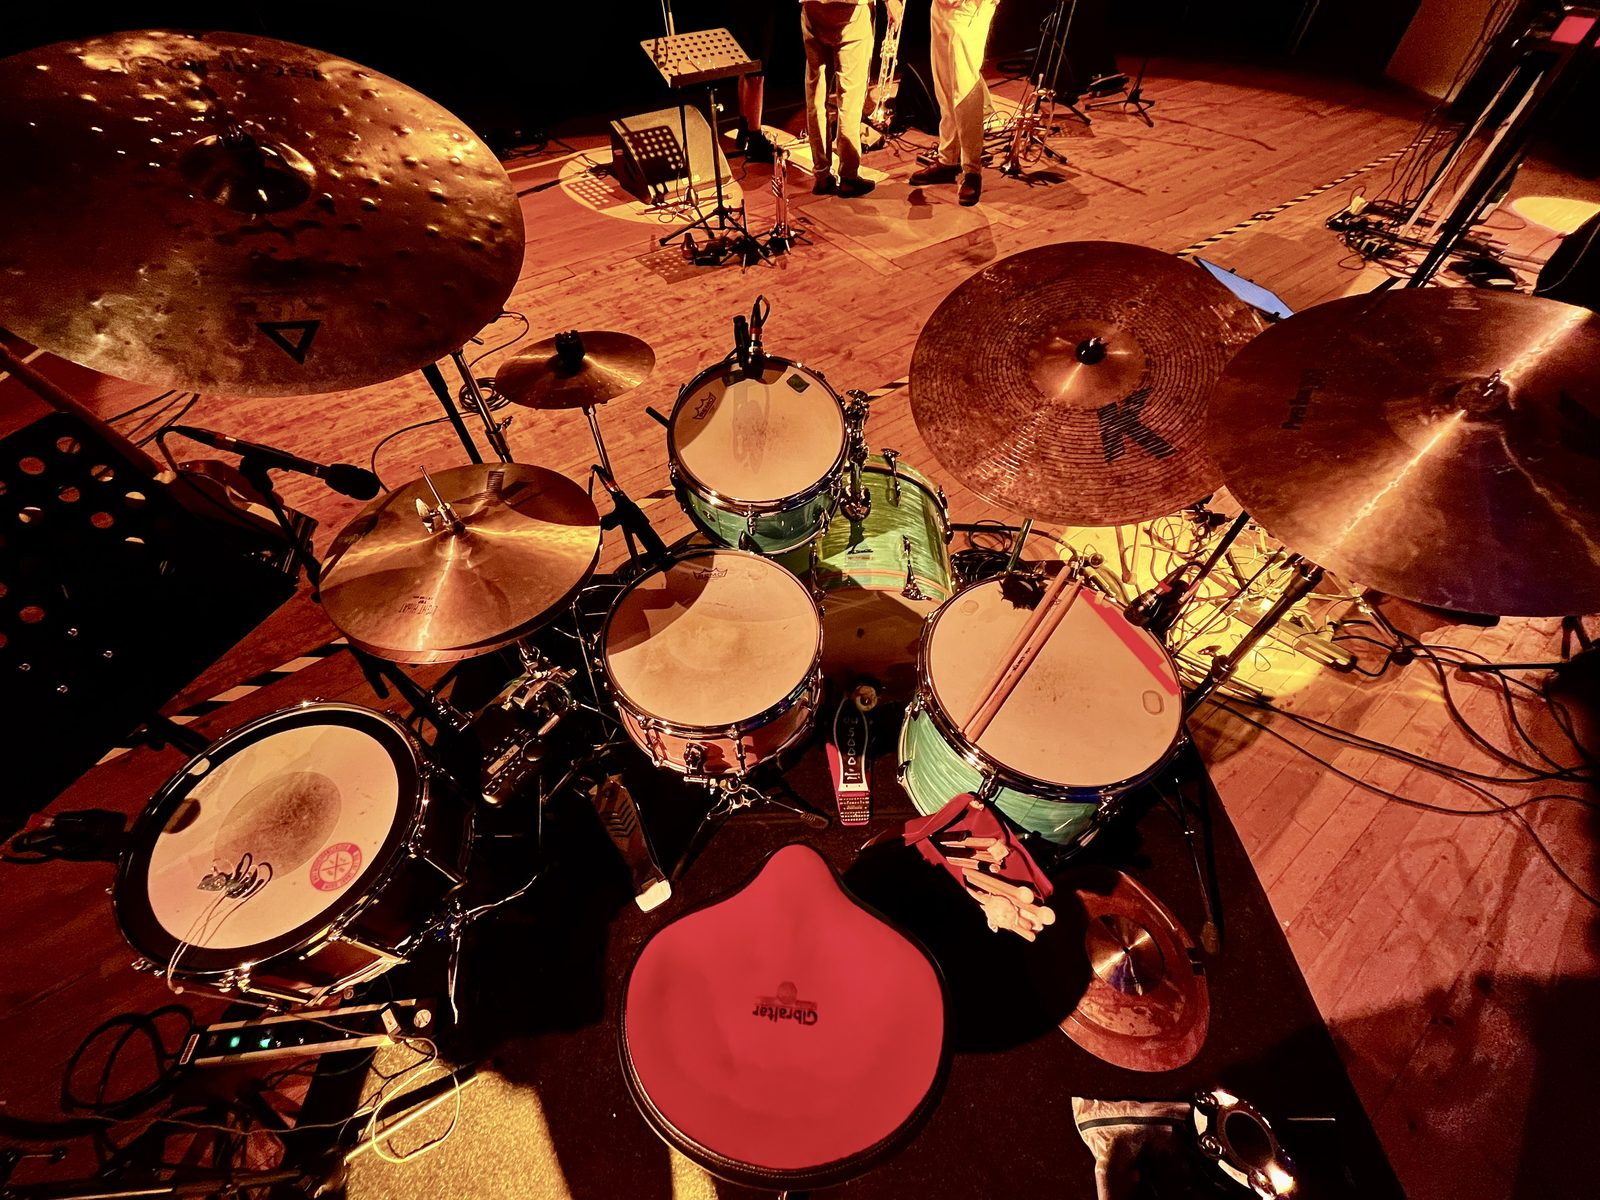
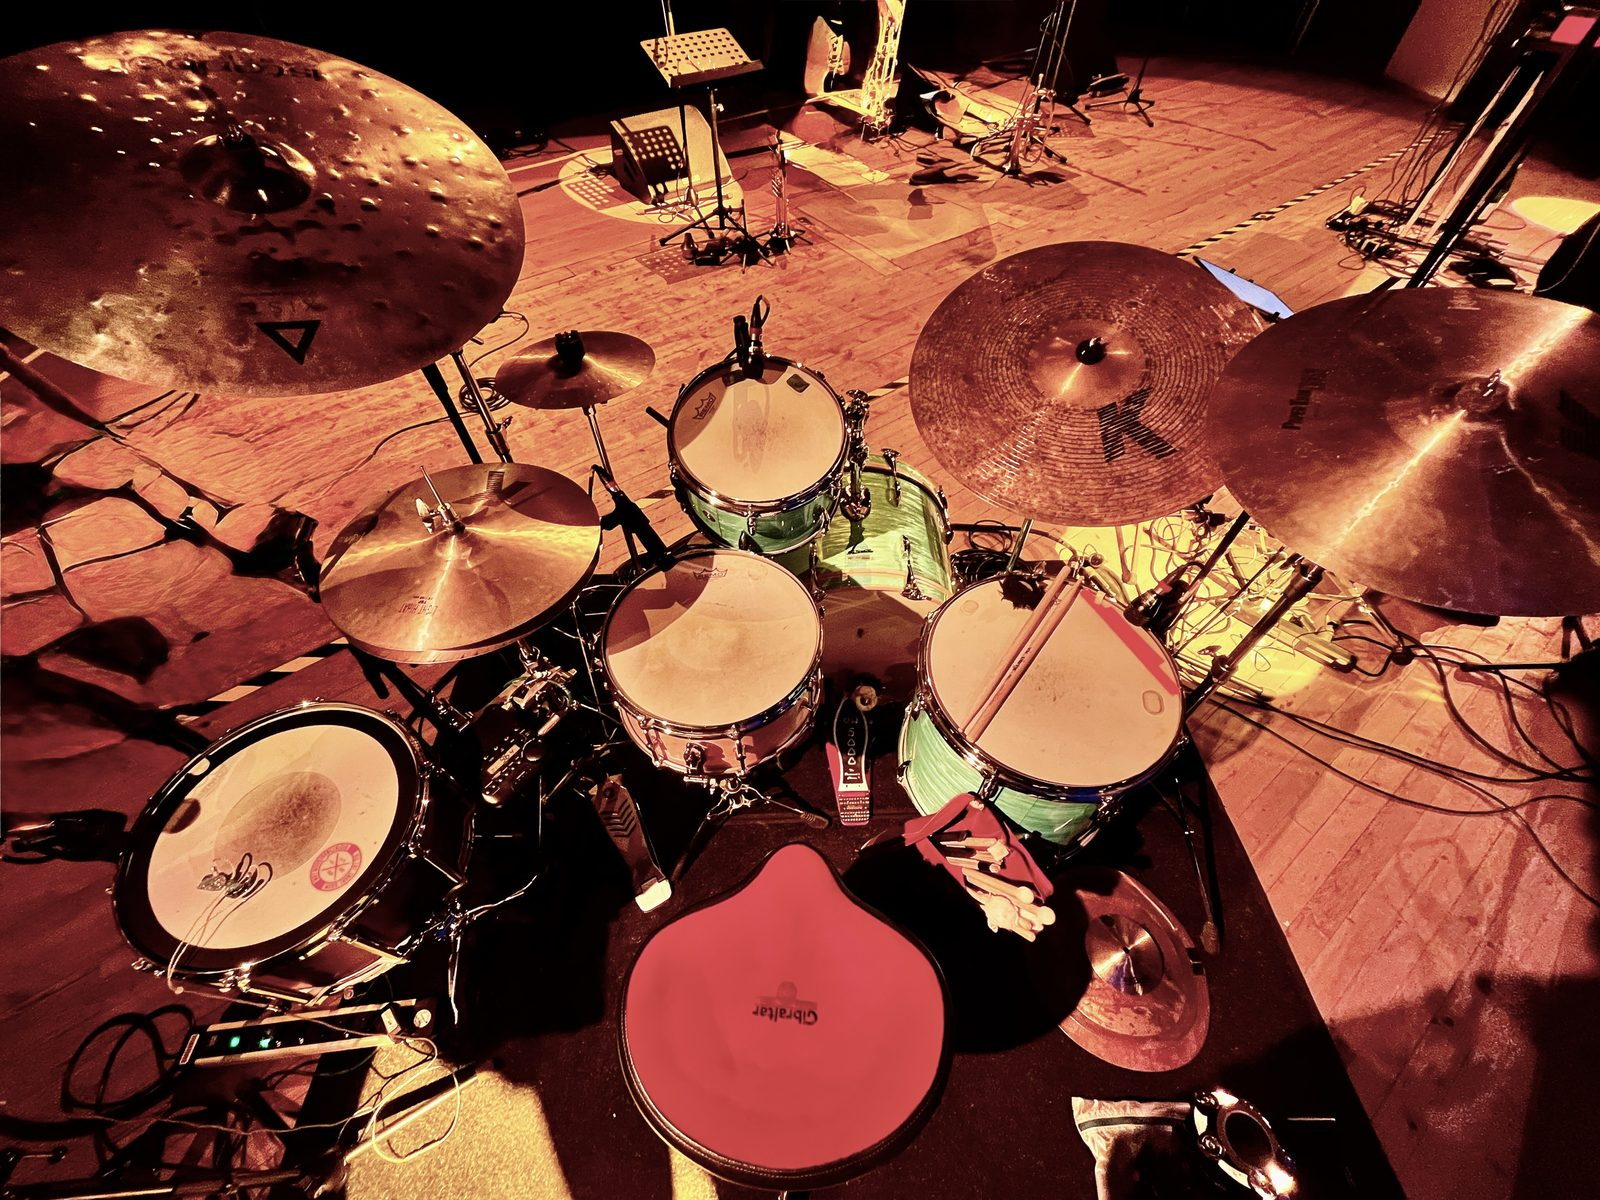
Sonor Bild 1: neue Fassung der Draufsicht

diff --git a/index.html b/index.html
@@ -295,8 +295,8 @@
         <p class="bio-text" data-i18n="gear.sonor.text">Leo plays a Sonor Vintage Series drum kit with a California Blue finish.</p>
 
         <div class="epk-gallery epk-gallery--color">
-          <button type="button" class="cover-trigger" data-lightbox="assets/images/sonor-photo-1.jpg">
-            <img src="assets/images/sonor-photo-1.jpg" alt="Leo Asal's Sonor Vintage Series drum kit" loading="lazy">
+          <button type="button" class="cover-trigger" data-lightbox="assets/images/sonor-photo-1.jpg?v=2">
+            <img src="assets/images/sonor-photo-1.jpg?v=2" alt="Leo Asal's Sonor Vintage Series drum kit" loading="lazy">
           </button>
           <button type="button" class="cover-trigger" data-lightbox="assets/images/sonor-photo-2.jpg">
             <img src="assets/images/sonor-photo-2.jpg" alt="Leo Asal's Sonor Vintage Series drum kit" loading="lazy">

diff --git a/CLAUDE.md b/CLAUDE.md
@@ -631,8 +631,11 @@ Behauptung, da Leo es als "mein Sonor Vintage Series" beschrieb), darunter
 eine normale `.epk-gallery.epk-gallery--color` mit 4 Fotos des grünen Kits
 (`assets/images/sonor-photo-1.jpg`–`-4.jpg`, aus iPhone-Originalen
 (Bild 2 = `IMG_8343`, Bild 3 = `IMG_8339`; Bild 1 seit 2026-10-05 die
-neue Aufnahme `IMG_8338.jpeg`, Draufsicht von links — nicht zu verwechseln mit
-dem gleichnamigen alten `IMG_8338` in `Inbox/processed/`); **Bild 4 ist das
+neue Aufnahme `IMG_8338.jpeg` (Draufsicht von links; Leo lieferte sie am
+selben Tag in drei Fassungen nach, aktuell ist die dritte/hellste, `…-v3` in
+`Inbox/processed/`; nicht zu verwechseln mit dem gleichnamigen alten
+`IMG_8338`); im HTML hängt `?v=2` an `sonor-photo-1.jpg`, damit Browser die
+ersetzte Datei neu laden); **Bild 4 ist das
 beschriftete Setup-Foto** (`setup-beschriftet-dunkel.jpg`, Draufsicht mit
 weißen Beschriftungsboxen je Trommel/Becken, 2000×1500 q85; seit 2026-10-05
 in der finalen Fassung mit allen Modellnamen, kein „[Modell folgt]“ mehr) 4032×3024 auf 1600×1200 skaliert, JPEG q82;

diff --git a/CHANGELOG.md b/CHANGELOG.md
@@ -5,6 +5,11 @@ Aktueller Zustand/Architektur steht in `CLAUDE.md`, nicht hier.
 
 ## Erledigt (chronologisch, neueste zuerst)
 
+- **Sonor Bild 1 erneut getauscht (2026-10-05).** Neue Fassung von `IMG_8338.jpeg`
+  (hellere Draufsicht, 4032×3024 → 1600×1200, q82) ersetzt `sonor-photo-1.jpg`;
+  `?v=2` gegen Cache. Original als `IMG_8338-2026-10-05-v3.jpeg` nach
+  `Inbox/processed/`.
+
 - **Sonor-Video 1,2× schneller (2026-10-05).** Per `setpts=PTS/1.2` direkt ins
   Video gerechnet (Boomerang neu: 13,5 → 11,3 s, 2,1 MB), `?v=3` an den
   Video-URLs.
